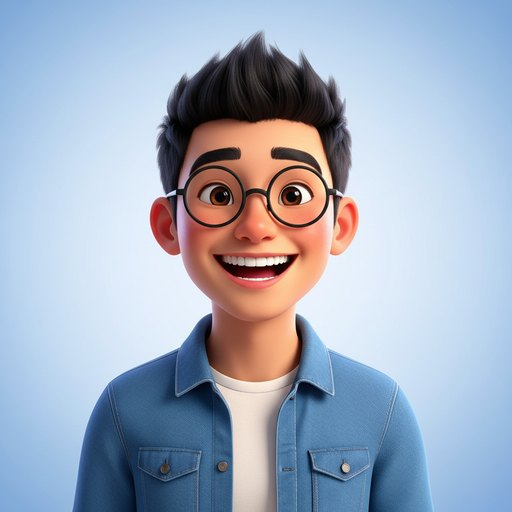
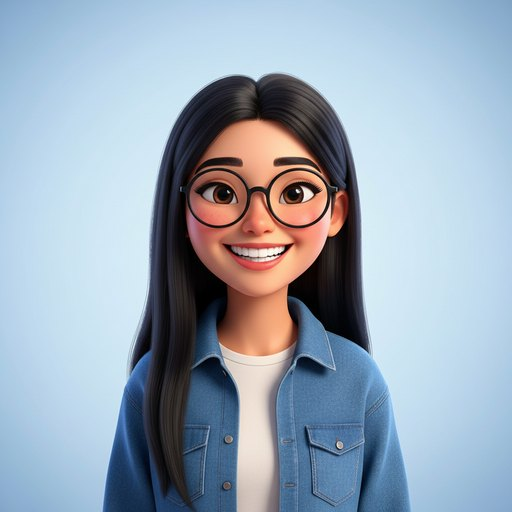
Bobo and Wawa are women: new 3D looks and portraits

diff --git a/public/office3d.js b/public/office3d.js
@@ -747,8 +747,8 @@ const LOOK = {
   mimi: { sex: 'f', hair: 'wavy', hairC: '#8a5a38', skin: '#fcdfcb', iris: '#6e4628', top: '#f7941d', pants: '#3b5a86' },
   kiki: { sex: 'f', hair: 'wavy', hairC: '#3e2a22', skin: '#f7d2b8', iris: '#4e301c', top: '#f4c430', cardigan: true, pants: '#2c3550', headset: true },
   lulu: { sex: 'f', hair: 'pony', hairC: '#6a4630', skin: '#fad9c4', iris: '#6b4226', top: '#ff7aa8', skirt: '#2a2f55', beret: '#ff6f91' },
-  bobo: { sex: 'm', hair: 'tousled', hairC: '#6b4426', skin: '#f0c6a6', iris: '#4a2e1a', top: '#ffffff', jacket: '#9a2b2b', pants: '#30343f', beard: true },
-  wawa: { sex: 'm', hair: 'spiky', hairC: '#1e1a1c', skin: '#ecbc98', iris: '#3a2416', top: '#ffffff', jacket: '#3f6fb5', pants: '#2b3550', glasses: true },
+  bobo: { sex: 'f', hair: 'wavy', hairC: '#8a3f22', skin: '#fad9c4', iris: '#5c3820', top: '#ffffff', jacket: '#9a2b2b', pants: '#30343f' },
+  wawa: { sex: 'f', hair: 'long', hairC: '#1e1a1c', skin: '#f7d2b8', iris: '#3a2416', top: '#ffffff', jacket: '#3f6fb5', pants: '#2b3550', glasses: true },
 };
 const FACE = { R: 0.3, t0: Math.PI * 0.3, tl: Math.PI * 0.58, pl: 1.9 };
 function faceTex(L) {

diff --git a/functions/index.js b/functions/index.js
@@ -469,3 +469,4 @@ export const onTaskDone = onDocumentUpdated(
     }
   });
 
+
